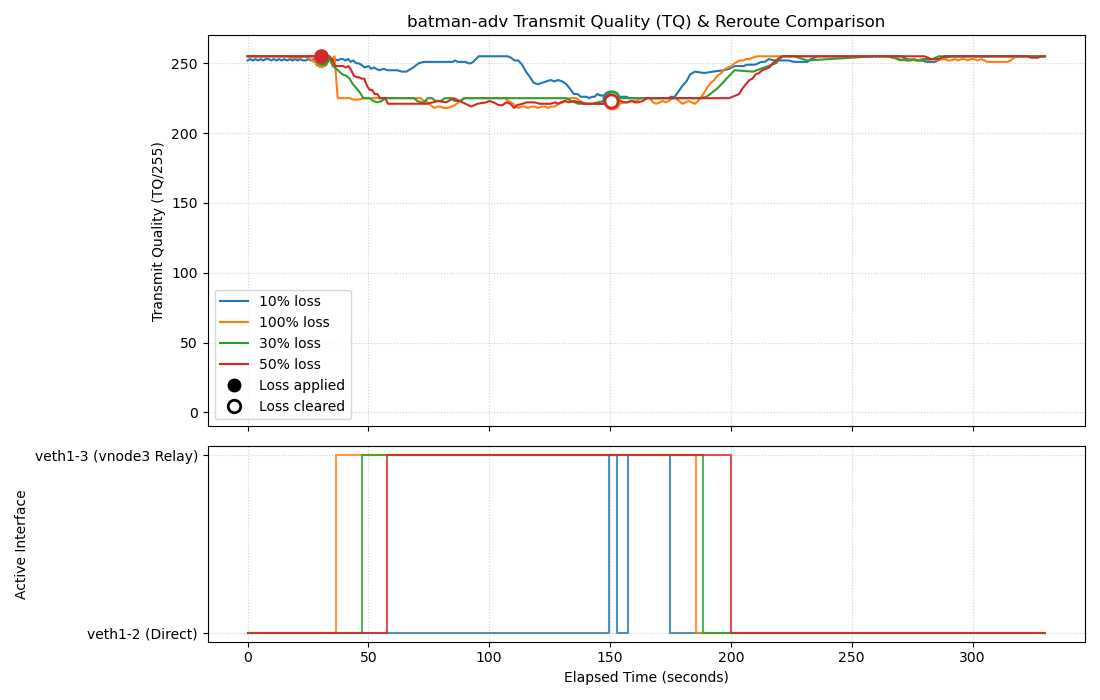
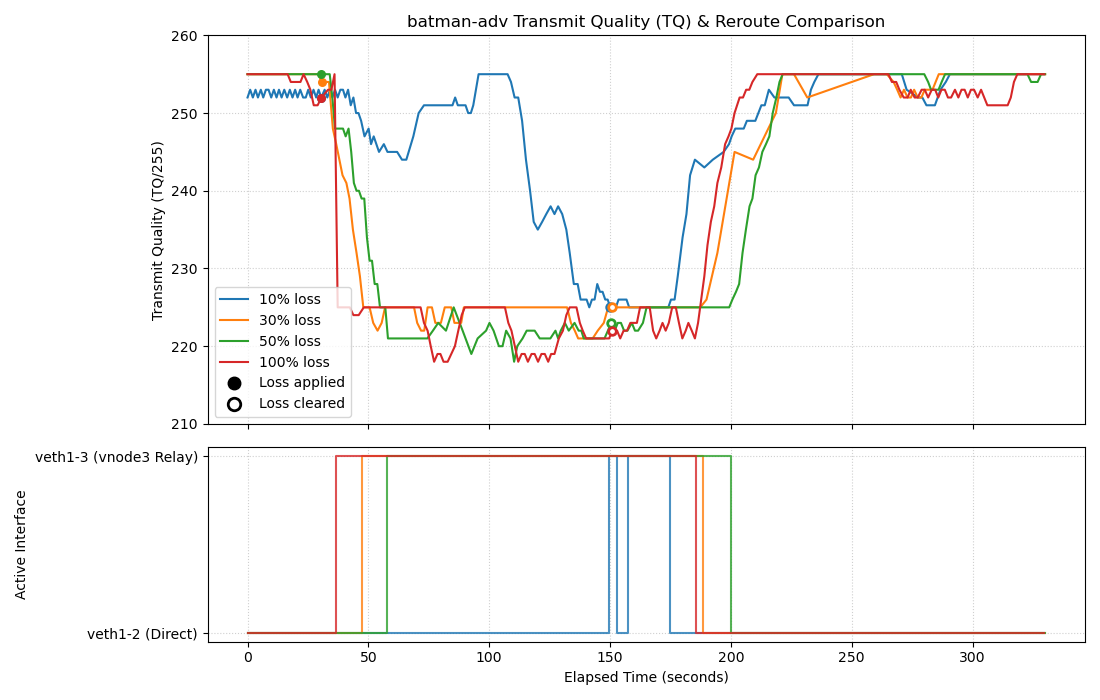
Updated plot visualization

diff --git a/virtual-mesh/orchestrator/plot_results.py b/virtual-mesh/orchestrator/plot_results.py
@@ -6,6 +6,11 @@ import matplotlib.pyplot as plt
 import os
 from matplotlib.lines import Line2D
 
+# Sorts the legend by increasing loss applied
+def loss_value(path):
+    name = os.path.basename(path)
+    return int(name.replace("TQ_EXP_loss", "").replace(".csv", ""))
+
 def generate_comparison_plot():
     csv_files = glob.glob("TQ_EXPS/TQ_EXP_loss*.csv")
     if not csv_files:
@@ -14,7 +19,7 @@ def generate_comparison_plot():
     
     fig, (ax1, ax2) = plt.subplots(2, 1, figsize=(11, 7), sharex=True, gridspec_kw={'height_ratios': [2, 1]})
 
-    for file in sorted(csv_files):
+    for file in sorted(csv_files, key = loss_value):
         df = pd.read_csv(file)
         run_label = os.path.basename(file).replace("TQ_EXP_loss", "").replace(".csv", "")
         
@@ -25,12 +30,13 @@ def generate_comparison_plot():
         on_rows = df[df["loss_pct"] > 0]
         if not on_rows.empty:
             on_row = on_rows.iloc[0]
-            ax1.scatter(on_row["time_s"], on_row["TQ"], s=90, color=line.get_color(), zorder=3)
+            print(run_label, on_row["time_s"], on_row["TQ"])
+            ax1.scatter(on_row["time_s"], on_row["TQ"], s=30, color=line.get_color(), zorder=3)
             
             off_rows = df[(df["time_s"] > on_row["time_s"]) & (df["loss_pct"] == 0)]
             if not off_rows.empty:
                 off_row = off_rows.iloc[0]
-                ax1.scatter(off_row["time_s"], off_row["TQ"], s=90, facecolors="white", edgecolors=line.get_color(), linewidths=2, zorder=3)
+                ax1.scatter(off_row["time_s"], off_row["TQ"], s=30, facecolors="white", edgecolors=line.get_color(), linewidths=2, zorder=3)
 
         # 3. Plot Interface Rerouting (0 = Direct veth1-2, 1 = Backup veth1-3 via vnode3)
         if "outgoing_if" in df.columns:
@@ -47,7 +53,7 @@ def generate_comparison_plot():
     # Formatting Top Plot (TQ)
     ax1.set_title("batman-adv Transmit Quality (TQ) & Reroute Comparison")
     ax1.set_ylabel("Transmit Quality (TQ/255)")
-    ax1.set_ylim(-10, 270)
+    ax1.set_ylim(210, 260)
     ax1.grid(True, linestyle=":", alpha=0.6)
     ax1.legend(handles, labels, loc="lower left")
 
